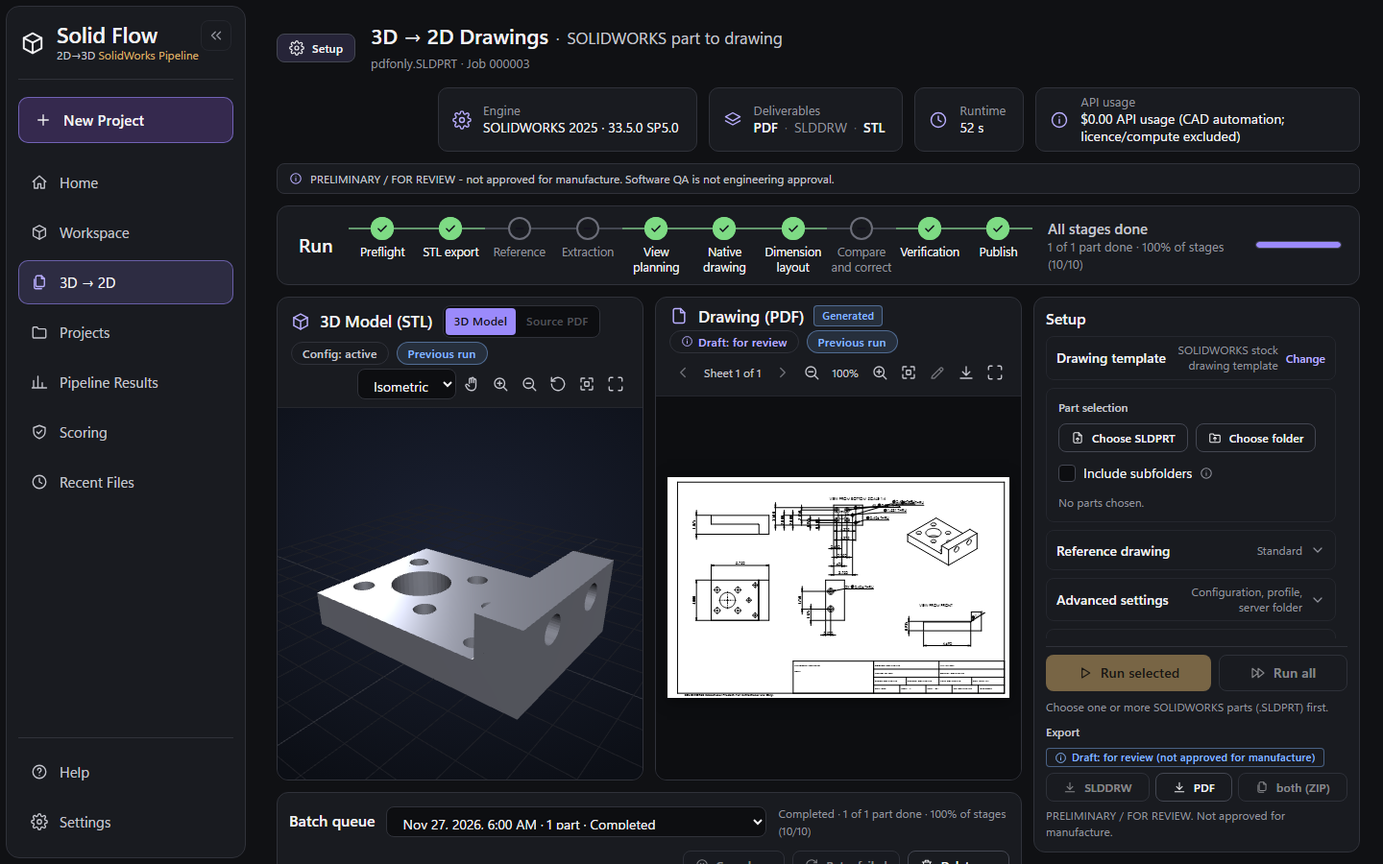
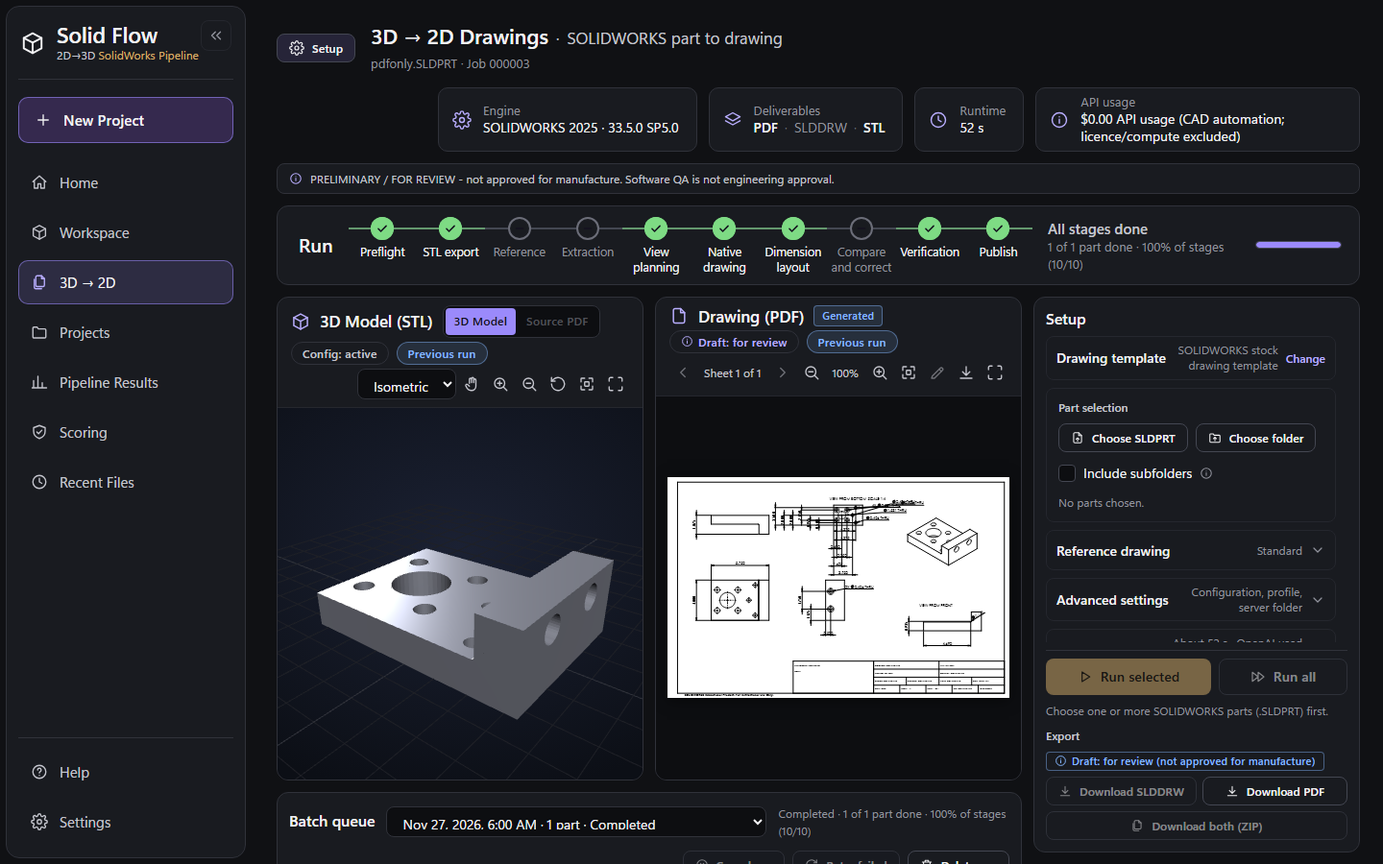
docs+test(ui): v7 workspace report and evidence, update spec 31 and stage-name-neutral fixtures for the v7 UI and stage vocabulary

Changed region(s): [[0.75, 0.7467, 0.9688, 0.9644]]

diff --git a/FINAL_UI/tests/e2e/tests/31-v5-reverse.spec.ts b/FINAL_UI/tests/e2e/tests/31-v5-reverse.spec.ts
@@ -36,7 +36,7 @@ async function open(page: Page, job: string, part = '', w = 1440, h = 900) {
 const stlReady = (page: Page) => expect(page.locator('#rv-3d .rv-vempty')).toBeHidden({ timeout: 15_000 });
 const pdfReady = (page: Page) => expect(page.locator('#rv-2d .rv-paperwrap')).toBeVisible({ timeout: 15_000 });
 const nonWhite = (page: Page) => page.evaluate(() => {
-  const c = document.querySelector('canvas.rv-paper') as HTMLCanvasElement; if (!c || !c.width) return false;
+  const c = document.querySelector('#rv-2d canvas.rv-paper') as HTMLCanvasElement; if (!c || !c.width) return false;
   const d = c.getContext('2d')!.getImageData(0, 0, c.width, c.height).data;
   for (let i = 0; i < d.length; i += 4 * 7) if (d[i] < 200) return true;
   return false;
@@ -104,12 +104,12 @@ test.describe('v5: 3D -> 2D', () => {
   test('93 review required: both viewers load, issues show severity label + icon, actions need a note and are audited', async ({ page }) => {
     await open(page, J_MIX, 'bracket');
     await stlReady(page); await pdfReady(page);
-    await expect(page.locator('.rv-pagelbl')).toHaveText('Sheet 1 of 2');
+    await expect(page.locator('#rv-2d .rv-pagelbl')).toHaveText('Sheet 1 of 2');
     expect(await nonWhite(page)).toBe(true);
     await expect(page.locator('#rv-2d .rv-draft')).toContainText('Draft: review required');
     await expect(page.locator('.rv-draft-note')).toContainText('PRELIMINARY / FOR REVIEW - not approved for manufacture');
     await page.locator('#rv-2d button[aria-label="Next sheet"]').click();
-    await expect(page.locator('.rv-pagelbl')).toHaveText('Sheet 2 of 2');
+    await expect(page.locator('#rv-2d .rv-pagelbl')).toHaveText('Sheet 2 of 2');
     await page.locator('#rv-tab-review').click();
     const cards = page.locator('.rv-issue');
     await expect(cards).toHaveCount(3);
@@ -137,10 +137,10 @@ test.describe('v5: 3D -> 2D', () => {
     await sev.locator('button[data-action="reject"]').click();
     await expect(page.locator('.rv-issue[data-disp="rejected"] .rv-hist li').last()).toContainText('Rejected by');
     // the review overlay is separate: the PDF canvas itself never changes
-    const before = await page.evaluate(() => (document.querySelector('canvas.rv-paper') as HTMLCanvasElement).toDataURL().length);
+    const before = await page.evaluate(() => (document.querySelector('#rv-2d canvas.rv-paper') as HTMLCanvasElement).toDataURL().length);
     await page.locator('#rv-2d button[aria-label="Review overlay"]').click();
     await expect(page.locator('.rv-overlay')).toContainText('Review overlay');
-    expect(await page.evaluate(() => (document.querySelector('canvas.rv-paper') as HTMLCanvasElement).toDataURL().length)).toBe(before);
+    expect(await page.evaluate(() => (document.querySelector('#rv-2d canvas.rv-paper') as HTMLCanvasElement).toDataURL().length)).toBe(before);
     await page.locator('#rv-2d button[aria-label="Review overlay"]').click();
     for (const w of [1280, 1440, 1920]) { await open(page, J_MIX, 'bracket', w, w === 1920 ? 1080 : 900); await stlReady(page); await pdfReady(page); await page.locator('#rv-tab-review').click(); await page.waitForTimeout(500); await shot(page, `review-required-${w}.png`);
       await page.evaluate(() => { const m = document.getElementById('main'); if (m) m.scrollTop = m.scrollHeight; }); await page.waitForTimeout(200); fs.mkdirSync(VERIFY, { recursive: true }); await page.screenshot({ path: path.join(VERIFY, `review-required-issues-${w}.png`) }); }
@@ -218,7 +218,7 @@ test.describe('v5: 3D -> 2D', () => {
 
   test('97 part and template pickers; Run disabled only with a concrete reason; nothing is submitted', async ({ page }) => {
     await open(page, J_DONE, 'flange');
-    await expect(page.locator('fieldset.rv-fs legend', { hasText: 'Drawing template' })).toBeVisible();
+    await expect(page.locator('#rv-acc-tpl-btn')).toContainText('Drawing template');                       // v7: the template is an accordion (selected + Change)
     await expect(page.locator('#rv-run-sel')).toBeDisabled();
     await expect(page.locator('#rv-run-why')).toContainText('Choose one or more');
     const dir = fs.mkdtempSync(path.join(os.tmpdir(), 'rvpick-'));
@@ -226,11 +226,11 @@ test.describe('v5: 3D -> 2D', () => {
     for (const f of ['top/A.SLDPRT', 'top/B.sldprt', 'top/sub/a.sldprt', 'top/c.sldasm', 'top/readme.txt']) fs.writeFileSync(path.join(dir, f), 'x'.repeat(30));
     await page.setInputFiles('#rv-dir', path.join(dir, 'top'));
     await expect(page.locator('.rv-picked li')).toHaveCount(2);
-    await expect(page.locator('.rv-fs').filter({ hasText: 'Parts' })).toContainText('2 parts selected; 2 non-part files ignored');
+    await expect(page.locator('#rv-pk-sum')).toContainText('2 parts selected; 2 non-part files ignored');
     await expect(page.locator('.rv-picked .badge-c', { hasText: 'Duplicate name' })).toHaveCount(0);
     await page.locator('#rv-rec').check();
     await expect(page.locator('.rv-picked li')).toHaveCount(3);
-    await expect(page.locator('.rv-fs').filter({ hasText: 'Parts' })).toContainText('3 parts selected (2 with duplicate names; each runs separately)');
+    await expect(page.locator('#rv-pk-sum')).toContainText('3 parts selected (2 with duplicate names; each runs separately)');
     await expect(page.locator('.rv-picked .badge-c', { hasText: 'Duplicate name' })).toHaveCount(2);
     await page.locator('#rv-rec').uncheck();
     await expect(page.locator('.rv-picked li')).toHaveCount(2);
@@ -246,9 +246,10 @@ test.describe('v5: 3D -> 2D', () => {
       await expect(page.locator('#rv-run-sel')).toBeDisabled();
       await expect(page.locator('#rv-run-why')).toContainText('template');
     }
-    await expect(page.locator('#rv-est')).toContainText(/Estimated runtime for \d+ part/);
+    await expect(page.locator('#rv-est')).toContainText(/Estimated for \d+ part/);
     await expect(page.locator('#rv-est')).toContainText(/Not enough data|About|checking|unavailable/);
     // server folder control: disabled until text, refuses unauthorized folders (never submits)
+    await page.locator('#rv-acc-adv-btn').click();                                              // v7: the server-folder run lives under Advanced settings
     await page.locator('.rv-sf summary').click();
     await expect(page.locator('.rv-sf button')).toBeDisabled();
     await page.locator('.rv-picked button[aria-label^="Remove"]').first().click();
@@ -266,9 +267,10 @@ test.describe('v5: 3D -> 2D', () => {
       { id: 'stock-default', name: 'SOLIDWORKS stock drawing template', source: 'stock', available: true, own_sheet_format: false, paper: 'as installed', has_preview: false, validation: { ok: null, errors: [] } }],
       default_id: 'solidflow-ansi-b', task: { id: 't1', kind: 'generate', state: 'running', label: 'Generating solidflow-ansi-b' } } }) : r.continue());
     await open(page, J_DONE, 'flange');
+    await page.locator('#rv-acc-tpl-btn').click();                                              // v7: template details are behind "Change"
     await expect(page.getByRole('button', { name: /Generate default/ })).toBeDisabled();
     await expect(page.getByRole('button', { name: /Generate default/ })).toHaveAttribute('title', /template task is running/);
-    await expect(page.locator('label[for="rv-tpl-file"]')).toHaveAttribute('aria-disabled', 'true');
+    await expect(page.locator('#rv-tpl-upload')).toBeDisabled();
     await expect(page.locator('.rv-task')).toContainText('Generating solidflow-ansi-b');
     const items = page.locator('.rv-tpl');
     await expect(items).toHaveCount(3);

diff --git a/FINAL_UI/web/static/css/reverse.css b/FINAL_UI/web/static/css/reverse.css
@@ -46,7 +46,7 @@
 .rv-sheetbody { background: var(--well); display: flex; }
 .rv-paperwrap { position: absolute; inset: 0; overflow: auto; display: grid; place-items: center; padding: 12px; outline-offset: -3px; }
 .rv-paper { display: block; background: var(--paper); box-shadow: 0 2px 14px rgba(0, 0, 0, .5); max-width: none; }
-.rv-vempty { background: transparent; }
+.rv-vempty, .rv-pempty { background: transparent; }
 .rv-spin svg { animation: trk-spin 1s linear infinite; }
 @media (prefers-reduced-motion: reduce) { .rv-spin svg { animation: none; } }
 .rv-overlay { padding: 10px 14px; border-top: 1px solid var(--line-soft); background: var(--surface); max-height: 160px; overflow: auto; font-size: var(--fs-small); }
@@ -137,8 +137,9 @@
 .rv-export { display: flex; flex-direction: column; gap: 6px; }
 .rv-exp-h { display: flex; align-items: center; gap: 8px; flex-wrap: wrap; }
 .rv-exp-h .rv-draft { white-space: normal; text-align: left; line-height: 1.25; }
-.rv-exp-b { display: flex; gap: 6px; flex-wrap: wrap; }
-.rv-exp-b .btn { flex: 1 1 auto; justify-content: center; }
+.rv-exp-b { display: grid; grid-template-columns: 1fr 1fr; gap: 6px; }
+.rv-exp-b .btn { justify-content: center; white-space: nowrap; }
+.rv-exp-b .btn[data-kind="zip"] { grid-column: 1 / -1; }
 .rv-exp-ack { align-items: flex-start; font-size: 12px; line-height: 1.35; }
 .rv-exp-ack input { margin-top: 1px; }
 .rv-qref { display: flex; align-items: center; gap: 4px; margin-top: 2px; font-size: 12px; color: var(--ink-3); }
@@ -169,7 +170,7 @@
 .rv-tpl-err { color: var(--err-text); }
 .rv-task[data-state="failed"] { color: var(--err-text); } .rv-task[data-state="done"] { color: var(--ok-text); }
 .btn.is-disabled { opacity: .5; pointer-events: none; }
-.rv-picked { display: flex; flex-direction: column; gap: 4px; max-height: 220px; overflow: auto; margin: 0; padding: 0; list-style: none; }
+.rv-picked { display: flex; flex-direction: column; gap: 4px; max-height: 112px; overflow: auto; margin: 0; padding: 0; list-style: none; }
 .rv-picked li { display: flex; align-items: center; gap: 6px; justify-content: space-between; padding: 2px 4px; border-radius: 6px; }
 .rv-picked .chk { min-width: 0; flex: 1 1 auto; }
 .rv-pk-n { overflow: hidden; text-overflow: ellipsis; white-space: nowrap; min-width: 0; }

diff --git a/FINAL_UI/web/static/js/pages/reverse-rail.js b/FINAL_UI/web/static/js/pages/reverse-rail.js
@@ -315,14 +315,14 @@
     v.buttons.forEach(function (b) {
       var ic = b.kind === 'zip' ? 'files' : 'download';
       row.append(h('button', { class: 'btn secondary sm', type: 'button', id: 'rv-exp-' + b.kind, 'data-kind': b.kind, disabled: b.enabled ? null : true, title: b.enabled ? b.label + (b.filename ? ' (' + b.filename + ')' : '') : b.reason,
-        onclick: function () { doExport(b.kind); } }, icon(ic, 14), b.label.replace('Download ', '')));
+        onclick: function () { doExport(b.kind); } }, icon(ic, 14), b.label));
     });
     box.append(row);
     if (v.ready && v.needsAck && v.any) {
       var cb = h('input', { type: 'checkbox', id: 'rv-exp-ack', 'aria-describedby': 'rv-exp-why', onchange: function () { S.ack = cb.checked; renderExport(); } }); cb.checked = !!S.ack;
       box.append(h('label', { class: 'chk rv-exp-ack', for: 'rv-exp-ack' }, cb, h('span', { text: 'I understand this is an unapproved draft for engineering review, not approved for manufacture.' })));
       box.append(h('p', { class: 'reason', id: 'rv-exp-why', text: v.status.reasons.join(' ') }));
-    } else if (v.ready) box.append(h('p', { class: 'reason', id: 'rv-exp-why', text: v.any ? 'PRELIMINARY / FOR REVIEW. Not approved for manufacture.' : (v.buttons.map(function (b) { return b.reason; }).filter(Boolean)[0] || 'Nothing to export yet.') }));
+    } else if (v.ready) box.append(h('p', { class: 'reason', id: 'rv-exp-why', hidden: v.any ? true : null, text: v.any ? 'PRELIMINARY / FOR REVIEW. Not approved for manufacture.' : (v.buttons.map(function (b) { return b.reason; }).filter(Boolean)[0] || 'Nothing to export yet.') }));
     else box.append(h('p', { class: 'reason', id: 'rv-exp-why', text: 'Select a part from a run to export its drawing.' }));
   }
   function refreshExport() {

diff --git a/FINAL_UI/web/static/js/features/pdfpane.js b/FINAL_UI/web/static/js/features/pdfpane.js
@@ -14,7 +14,7 @@
     var P = { doc: null, page: 1, zoom: 1, task: null, rendering: false, again: false, key: '', ready: false, token: 0 };
     var paper = h('canvas', { class: 'rv-paper', 'aria-label': (opts.label || 'PDF') + ' sheet' });
     var wrap = h('div', { class: 'rv-paperwrap rv-pan', tabindex: '0', role: 'region', 'aria-label': (opts.label || 'PDF') + ' sheet (scrollable; drag to pan)', hidden: true }, paper);
-    var box = h('div', { class: 'vp-empty rv-vempty' });
+    var box = h('div', { class: 'vp-empty rv-pempty' });
     var el = h('div', { class: 'rv-pdfpane' }, wrap, box);
     var pageLbl = h('span', { class: 'rv-pagelbl', 'aria-live': 'polite' }), zoomLbl = h('span', { class: 'rv-zoomlbl' });
     function tb(attrs, ic, label, fn) { return h('button', Object.assign({ class: 'ibtn', type: 'button', title: label, 'aria-label': label, onclick: fn }, attrs || {}), icon(ic, 18)); }

diff --git a/FINAL_UI/tests/server/test_v5_reverse.py b/FINAL_UI/tests/server/test_v5_reverse.py
@@ -33,6 +33,8 @@ import reverse_fixtures as fx  # noqa: E402
 from reverse import engine, state, worker  # noqa: E402
 
 client = TestClient(appmod.app)
+MESH = next(x for x in state.STAGES if x in ("mesh_export", "stl_export"))          # stage names follow the backend vocabulary (v7 renamed them)
+PLAN = next(x for x in state.STAGES if x in ("planning", "view_planning"))
 GATE = threading.Event()
 ATTEMPTS: dict = {}
 
@@ -62,7 +64,7 @@ def fake_run(self):
             return
         state.begin_stage(p, stage)
         self.store.save(self.job)
-        if "slow" in name and stage == "mesh_export":
+        if "slow" in name and stage == MESH:
             for _ in range(100):
                 if GATE.is_set() or self.cancel():
                     break
@@ -72,14 +74,14 @@ def fake_run(self):
                 state.finish(p, "canceled")
                 self.store.save(self.job)
                 return
-        if "fail" in name and stage == "planning" or ("flaky" in name and ATTEMPTS[p.part_id] == 1 and stage == "planning"):
+        if "fail" in name and stage == PLAN or ("flaky" in name and ATTEMPTS[p.part_id] == 1 and stage == PLAN):
             state.end_stage(p, stage, "failed", errors=["boom"])
             state.finish(p, "failed", f"RuntimeError: layout failed for {self.src}")      # an absolute path on purpose: the API must scrub it
             self.store.save(self.job)
             return
         state.end_stage(p, stage)
         self.store.save(self.job)
-        if stage == "mesh_export":
+        if stage == MESH:
             fx.write_part_files(self.store.dir(self.job.job_id), p, pdf=False, qa=False)
             self.store.save(self.job)
     fx.write_part_files(self.store.dir(self.job.job_id), p, issues=[])
@@ -326,7 +328,7 @@ def test_cancel_stops_the_running_part_and_the_queued_ones(isolated):
     r = submit([sld("slow.SLDPRT"), sld("second.SLDPRT")])
     jid = r.json()["job_id"]
     for _ in range(100):
-        if client.get(f"/api/reverse/jobs/{jid}").json()["parts"][0]["state"] == "mesh_export":
+        if client.get(f"/api/reverse/jobs/{jid}").json()["parts"][0]["state"] == MESH:
             break
         time.sleep(0.05)
     assert client.post(f"/api/reverse/jobs/{jid}/cancel").status_code == 200
@@ -340,7 +342,7 @@ def test_cannot_delete_or_review_a_running_job_but_can_delete_a_finished_one(iso
     r = submit([sld("slow.SLDPRT")])
     jid = r.json()["job_id"]
     for _ in range(100):
-        if client.get(f"/api/reverse/jobs/{jid}").json()["parts"][0]["state"] == "mesh_export":
+        if client.get(f"/api/reverse/jobs/{jid}").json()["parts"][0]["state"] == MESH:
             break
         time.sleep(0.05)
     assert client.delete(f"/api/reverse/jobs/{jid}").status_code == 409

diff --git a/FINAL_UI/docs/verification/v7/WORKSPACE_V7_REPORT.md b/FINAL_UI/docs/verification/v7/WORKSPACE_V7_REPORT.md
@@ -1,0 +1,78 @@
+# 3D -> 2D workspace, reference viewer and export (v7, UI half)
+
+Date: 2026-11-27. Scope: `FINAL_UI/` only (3D -> 2D page and shared components). No SOLIDWORKS was started and no paid API call was made. Backend contract: `docs/solidflow-upgrades/V7_CONTRACT.md`.
+
+## 1. The blank band under the viewers: root cause and fix
+
+Measured on the unchanged page (`before-*.png`, isolated server, job with 3 parts), distance from the bottom of the viewers to the top of the Batch Queue:
+
+| size | viewers bottom | queue top | gap |
+|---|---|---|---|
+| 1280x720 | 725 | 1030 | **305 px** |
+| 1440x900 | 826 | 1210 | **384 px** (rail 876 px high next to 504 px viewers) |
+| 1920x1080 | 833 | 1159 | **326 px** |
+
+Cause: `.rv-main` was a two-column grid (`viewers | setup rail`, `align-items: start`) holding only one row. The setup rail was the tallest item, so the row took its height and the Batch Queue started below the rail, leaving the space under the viewers empty. Not a spacer, `margin-top:auto` or min-height.
+
+Fix (`css/reverse.css`, `pages/reverse.js`): one grid with areas `"split rail" / "queue rail"`. The rail cell is `contain: size` (it has no intrinsic height) and the aside is sticky inside it, so its height is the part of the cell that is on screen (`fitRail()` sets `--rv-rail-h` on scroll/resize/observer; pure layout, no state). The rail can never make the row taller; it scrolls its own content, and Run and Export sit pinned at its bottom. Queue rows scroll inside `.rv-qbody` (max `max(220px, 36vh)`) under a sticky table header; the queue header with the active job status never scrolls away. Below 1100 px the rail stays the existing drawer (Setup button, scrim, Escape), the viewers and queue stack, no horizontal overflow.
+
+After: **12 px at all 24 combinations** (1280x720, 1440x900, 1920x1080, 2560x1100 x zoom 80/100/125% x sidebar open/rail), see `gap-matrix.txt`; also 12 px with an empty queue, a running job and a 5-row batch (spec 34 tests 110, 111).
+
+## 2. What was built
+
+| Area | Files |
+|---|---|
+| Setup rail (template, parts, reference, advanced, runtime and cost, run, export), reference flow, export actions | `web/static/js/pages/reverse-rail.js` (new) |
+| Page: layout, left viewer toggle, queue reference badge, verification block, stage vocabulary | `web/static/js/pages/reverse.js`, `css/reverse.css` |
+| Reusable PDF viewer (pages, zoom, fit, drag-pan, loading/error/empty, Retry) | `web/static/js/features/pdfpane.js` (new) |
+| Pure rules (artifacts, export state, reference rows, payload, provenance, source availability, usage text) | `web/static/js/logic/referenceview.js` (new), `logic/reverseview.js` (v7 stage list, `na` state) |
+| HTTP: capabilities, stage, candidates, confirm, reference upload, export (SLDDRW/PDF/ZIP), reference payload on submit | `server/reverse_v7.py` (new), `server/reverse_api.py` |
+
+**Rail order** (right, scrolls independently): Drawing template (selected + Change), Part selection, Reference drawing, Advanced settings (collapsed), Runtime and cost (collapsed, summary visible), Run controls, Export (bottom). Accordions are `<button aria-expanded aria-controls>`; Enter/Space work natively; toggling only flips `hidden`, so no re-render, no state loss, no accidental run. State is per workspace (sessionStorage). File inputs are created once and never re-created. Nothing opens the reference panel on a poll tick (spec 34 test 114); it opens when the user selects Match, or when a run is blocked on a reference.
+
+**Reference drawing.** `Standard | Match reference` radiogroup (arrow keys). Match: `Auto-find / Upload PDF / Select saved source`, a one-line status (`1 of 3 matched · 1 need confirmation · 1 unmatched`), per-part rows (candidate select with project/run/date/pages/confidence/reasons, explicit **Confirm**, per-part **Upload PDF** override, per-part **Use Standard**, Reset). Run is blocked, with the reason, until every row is matched, confirmed, uploaded or explicitly Standard. No silent fallback: the backend `fallback_standard` flag is sent only when a row chose Standard. Provenance and extraction accordion shows what the selected finished part used (source kind, file, SHA-256 prefix, link, confidence, extraction cache hit/supplemented/fresh, OpenAI usage). Match is disabled with the reason when `GET /api/reverse/capabilities` says the backend lacks it.
+
+Because a browser cannot give the server a path, Match mode first uploads the chosen parts once (`POST /stage`), then looks up candidates per part against those copies, and submits from the same stage (`POST /jobs` JSON `{stage_id, keys, reference}`); the stage is consumed by the job. The browser only ever names ids (`stage_id`, `p<n>`, `upload_id` = SHA-256, `artifact_id`); server paths and the OpenAI key never reach it. The server accepts an `artifact_id` only if it was offered for that part in that stage, and a candidate flagged `needs_confirmation` only after `POST /reference/confirm` (which calls `confirm_reference_link`, i.e. it persists the link in `<data>/reference/links.json`).
+
+**Runtime and cost.** Two separate blocks: "Local CAD time (no token cost)" (estimate and measured runtime) and "OpenAI (reference extraction only)" (per-part measured `api_usage`, "others not recorded", never `$0` for unknown).
+
+**Left viewer.** Beside the `3D Model (STL)` title: segmented `3D Model | Source PDF`. Source PDF shows the file the run used (`files.source_pdf`), labelled **Original** with provenance; the right viewer stays the generated PDF, labelled **Generated**. Disabled (`aria-disabled` + tooltip) for Standard, blocked, canceled, queued or missing-file parts; the generated PDF is never shown as the source. View state (mode, page, zoom) is kept per part/run; switching part resets both viewers and loads that part's own files. Optional synchronised page/zoom, offered only when both drawings have the same page count. Loading, error (with Retry) and empty states. Viewing creates no object URLs (asserted).
+
+**Export.** At the bottom of the rail: `Download SLDDRW`, `Download PDF`, `Download both (ZIP)`, draft status chip, acknowledgement checkbox. Enabled only for artifacts the server says exist for the selected part, bound to job + part + the artifact size (`expect`), acknowledgement reset when the selection or artifacts change. Server (`GET /jobs/{job}/parts/{part}/export[/slddrw|pdf|zip]`): path resolved by `ReverseService.artifact_path`, containment and listed-artifact check, `application/pdf` / `application/octet-stream` / `application/zip` attachment, sanitised filename, content-length, `nosniff`, `X-Drawing-Status`; 404 missing / unknown part or job, 409 canceled, not finished, stale `expect`, or acknowledgement missing (unapproved drafts: verification not passed, review required/failed, open review, or verification not recorded). Never says "approved". ZIP is built from the two validated artifacts only and deleted after sending. Notifications use the existing toast system.
+
+## 3. Tests (all against isolated servers and data dirs; ports 8251-8257, none is 8200; all stopped)
+
+| Suite | Result |
+|---|---|
+| New `tests/e2e/tests/34-v7-reverse-reference.spec.ts` (`tests/e2e/run_v7_all.sh`) | **22 / 22 pass** |
+| New `tests/server/test_v7_reverse.py` | 14 pass |
+| `pytest tests/server` (all) | **150 pass** |
+| New `tests/unit/referenceview.test.js` + updated `reverseview.test.js` | pass; `node --test`: 277 / 279, the 2 failures are the same two documented in the v6 report (`registry` status/source, `store` run/finalized) |
+| E2E 25 / 26 / 29 / 30 / 32 / 33 | 11 / 5 / 3 / 13 (ran, not skipped) / 7 / 11 pass |
+| E2E 31 (v5 reverse) | 14 / 14 pass **after updating it** (see below) |
+| E2E 27 | 6 / 7: test 81 fails, **identically on a pristine base** (commit 4abb1d3 served separately) |
+| E2E 28 | 3 / 4: test 86 is data dependent: passes on a fresh data dir and fails on later runs, **identically on the pristine base** (3 of 3 repeat runs failed there too) |
+
+Spec 34 asserts computed boxes and real bytes: gap 8-16 px (actual 12) and no horizontal overflow over the size x zoom x sidebar matrix; viewers equal height and aligned; rail inside the row and Run/Export inside the rail; accordion roles, order and persistence; polling without reset (>= 2 polls observed, accordions, scroll, focus and typed text unchanged); reference rows for matched / ambiguous / unmatched, Confirm, explicit Standard, JSON payload (no paths); upload through the real route and real backend validation (non-PDF refused, real 2-page PDF accepted, id = SHA-256); real lookup for an unknown part ("No saved source found"); capability-missing and stage-failure paths; provenance for each seeded part; export enabled only for real artifacts and bound to the selection (flange, bracket with acknowledgement, plate not run, cover failed, canceled, running, PDF-only); downloaded PDF, SLDDRW and ZIP bytes equal the files on disk (SHA-256), filenames, request URLs name the selected part; refused downloads (stale, 409, 404, traversal, wrong job) show notifications and save nothing; Source PDF loads the original bytes (hash compared against the seeded source and against the generated PDF), painted canvas, pages/zoom/fit/pan, labels, provenance, return to 3D; unavailable-source reasons; per-part view state; sync on/off in both directions; error + Retry; N/A stages and verification block; radiogroup arrow keys, accessible names, visible focus, axe (no serious/critical), narrow drawer with Escape.
+
+Seed (`tests/e2e/helpers/make_v7_fixture.py`, labelled in its docstring): `model.stl`, `drawing.pdf`, `drawing.slddrw` are **copies of a real SOLIDWORKS-generated run** found in `FINAL_UI/data/outputs/3d-to-2d` (originals only read; used only by this seed, never shipped; falls back to labelled stand-ins if absent). Source reference PDFs are hand-generated test PDFs ("ORIGINAL SOURCE <part>"). The `reference` / `verification` blocks are shaped like V7_CONTRACT section 4: they prove the UI's handling, not backend output.
+
+### Existing tests changed (and why)
+- `31-v5-reverse.spec.ts`: first run after the change had 4 failures from selectors that the redesign made ambiguous or moved (`.rv-pagelbl` and `canvas.rv-paper` now exist in both viewers; the template legend, the Generate/Upload template controls, the server-folder summary and the estimate text moved into accordions); stage counts changed from 8 to 10 (v7 vocabulary). Updated to the new structure; intent unchanged. (A 5th break, `#rv-3d .rv-vempty` matching twice, was fixed in the component by giving the PDF pane its own class, not in the test.)
+- `tests/server/reverse_fixtures.py`, `test_v5_reverse.py`, `tests/unit/reverseview.test.js`: stage names/counts no longer hard-coded (the backend renamed its stages while this work was in progress).
+- Also fixed (pre-existing, found on the way): `McA.dom.h` printed nested `[dt, dd]` arrays as `[object HTMLElement]` (visible in Results > Verification "PDF check" key/value blocks); it now flattens nested arrays.
+
+## 4. Evidence (`docs/verification/v7/`)
+`before-1280x720|1440x900|1920x1080.png` (the blank band), `after-flange-*.png`, `after-empty-queue-1440x900.png`, `after-reference-match-1440x900.png` (Match mode, ambiguous/unmatched rows), `after-source-pdf-1440x900.png` (Source PDF toggle), `after-export-pdf-only-1440x900.png` (export only where artifacts exist, Standard N/A stages), `after-narrow-rail-1000x800.png`, `gap-matrix.txt` (all 24 measurements). Screenshots are taken at zoom 100% with the browser's own viewport; zoom 80/125% is asserted by geometry, not by image (a screenshot drops a CDP device-metrics override).
+
+## 5. Limitations and not tested
+- **Not run end to end:** no real submit with a reference (needs the CAD worker, SOLIDWORKS and paid extraction, which this task may not touch). Specs intercept `POST /api/reverse/jobs` and assert the payload; the server-side translation and the fake-backend submit are covered by pytest. Real reference extraction, comparison, collision and round-trip checks are the backend agent's gates.
+- Real candidate lookups were only exercised for the empty case (no saved source); the ambiguous / confirmed / auto-matched UI is driven by mocked `/reference/candidates` responses shaped like the contract.
+- SLDDRW downloads are the file as the backend wrote it. Reopening it in SOLIDWORKS, checking its part link, and offering packaged model dependencies were not done (UI work may not touch SOLIDWORKS); the ZIP holds only the SLDDRW and the PDF and never replaces the user's part.
+- Browser zoom is emulated with CDP device metrics, not real Ctrl +/-. At 1440x900 and 125% (720 px CSS height) the rail's floor of 320 px puts the Export row slightly below the fold until the page scrolls (the rail is sticky, so it stays reachable); the viewport check applies from 780 px CSS height.
+- Match mode needs parts chosen in the browser (the server must hold copies it can look up); "Run a folder on the server" is Standard only and is disabled with a reason in Match mode. Staged copies are removed with their job, dropped on "Find again", or swept after 6 hours of server uptime; copies staged and abandoned before a server restart stay in `<data>/uploads/3d-to-2d/u_*` until the job/data is cleaned.
+- Selecting a candidate that needs confirmation and pressing Confirm persists a link (`<data>/reference/links.json`) through `confirm_reference_link`; that is a lasting user decision, not a preview.
+- A part blocked in preflight (`REFERENCE_BLOCKED`) shows the reason and the Reference badge in the queue; there is no "re-run in Standard" action (the backend retry does not take a reference); start a new run.
+- Below 1100 px the rail remains the existing slide-over drawer (Setup button) rather than stacking under the viewers; the viewers and the queue do stack and nothing overflows horizontally.
+- The queue table keeps its eight columns; the reference status is a line under the part name, not a ninth column.
+- The backend was being edited in the same working tree while this was built (stage names moved to the v7 list); the UI reads `stage_order`, `stage_labels` and falls back to the legacy eight only when a part's records use legacy keys.

diff --git a/FINAL_UI/README.md b/FINAL_UI/README.md
@@ -112,3 +112,13 @@ layout looks old after an update, hard-refresh once (Ctrl+F5). Action buttons us
 Uploaded parts are copied to `<data>/uploads/3d-to-2d/`; a server-local folder is accepted only inside the roots listed in `SOLIDFLOW_REVERSE_ROOTS` (path-separator list). The UI never starts SOLIDWORKS itself and shows
 a drawing or model only when the server lists the file. Drawings are PRELIMINARY / FOR REVIEW; review actions are audited (who, when, note). Browser tests need the server on an isolated `MCAGENT_DATA`
 (`tests/e2e/run31.sh`); fixture jobs are labelled test stand-ins, not native CAD output.
+
+#### v7: reference drawing, Source PDF and export
+
+- **Setup rail** (right side, scrolls itself; Run and Export stay at its bottom): Drawing template, Part selection, Reference drawing (Standard | Match reference), Advanced settings, Runtime and cost, Run, Export. Accordions are buttons with
+  `aria-expanded` / `aria-controls`; they only toggle `hidden`, so a poll or a re-render never resets them. Reference matching is a per-part decision made before the run: Auto-find / Upload PDF / Select saved source, a one-line status,
+  and an explicit Confirm for ambiguous candidates. A part with no reference is blocked unless the user chooses Standard for that row. If the backend has no reference support (`GET /api/reverse/capabilities`) Match is disabled with the reason.
+- **Source PDF**: beside the `3D Model (STL)` title a `3D Model | Source PDF` toggle shows the real original reference PDF the run used (never the generated one). Source PDF is disabled with a tooltip for Standard, blocked or unfinished parts.
+- **Export** (`GET /api/reverse/jobs/{job}/parts/{part}/export[/slddrw|pdf|zip]`): the server resolves the artifact, checks containment, serves `application/pdf` / `application/octet-stream` / `application/zip` as an attachment with a sanitised
+  name, and returns 404 (missing), 409 (stale `expect`, canceled, still running, or acknowledgement missing). Unapproved drafts need `ack=1` (the UI asks for an explicit acknowledgement). A drawing is never labelled approved.
+- Routes added by `server/reverse_v7.py`: `/capabilities`, `/stage`, `/reference/candidates`, `/reference/confirm`, `/reference/upload`. Browser tests: `tests/e2e/run_v7_all.sh` (spec `34-v7-reverse-reference`); report `docs/verification/v7/WORKSPACE_V7_REPORT.md`.
